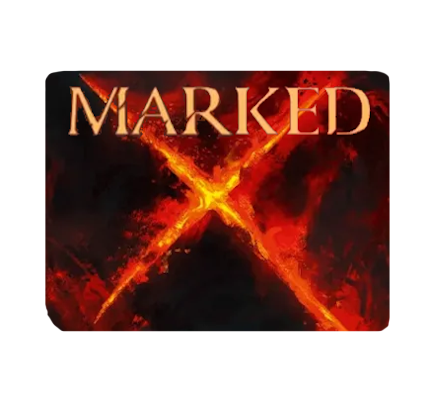
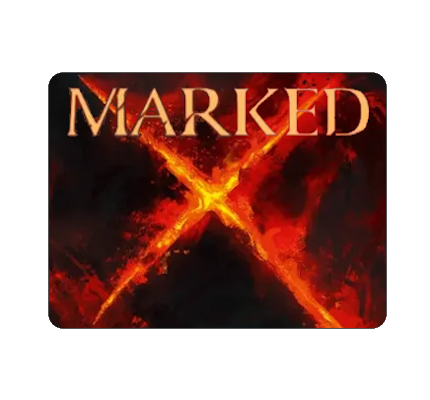
Small clean-up

diff --git a/src/routes/game/components/elements/cardDisplay/CardDisplay.module.css b/src/routes/game/components/elements/cardDisplay/CardDisplay.module.css
@@ -91,7 +91,7 @@
   background-image: url('../../../../../img/elements/markedOverlay.png');
   background-repeat: no-repeat;
   background-size: 100% 100%;
-  opacity: 0.8;
+  opacity: 0.7;
 }
 
 .numUses {
